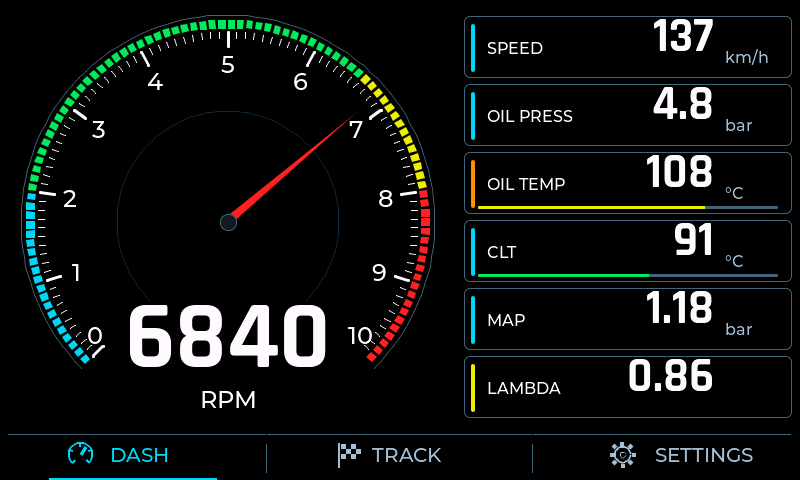
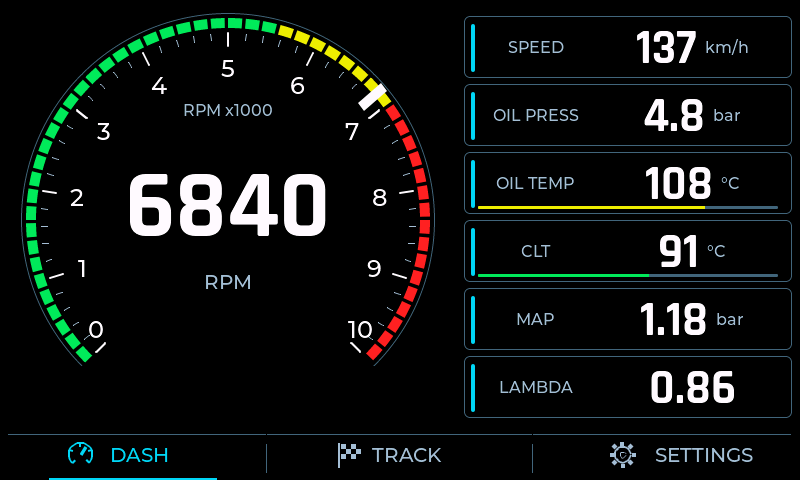
docs(ui): publish six real LVGL layouts and verified test firmware details

diff --git a/docs/superpowers/plans/2026-09-18-six-layouts-approved-ui.md b/docs/superpowers/plans/2026-09-18-six-layouts-approved-ui.md
@@ -27,25 +27,25 @@
 
 Files: src/settings/app_config.h, src/settings/config_repository.cpp, src/ui/dashboard_layout.{h,cpp}, src/ui/tile_engine.cpp, src/ui/ui.cpp, src/ui/shift_light_view.cpp, test/test_dashboard_layout/test_main.cpp, test/test_config_repository/test_main.cpp.
 
-- [ ] Add native behavior tests for enum value 5, six right-row placements, independent page banks, E save/load and v7 migration preserving sound and all old banks.
-- [ ] Push test-only commit and inspect failing GitHub native logs before implementing.
-- [ ] Append ModernMotorsport, expand alternatives to five banks, bump schema to 8; copy_n old bank arrays in v6/v7 migration. Add dropdown choice, placement reuse and integrated shift behavior.
-- [ ] Run full GitHub native tests and packaging tests.
+- [x] Add native behavior tests for enum value 5, six right-row placements, independent page banks, E save/load and v7 migration preserving sound and all old banks.
+- [x] Push test-only commit and inspect failing GitHub native logs before implementing.
+- [x] Append ModernMotorsport, expand alternatives to five banks, bump schema to 8; copy_n old bank arrays in v6/v7 migration. Add dropdown choice, placement reuse and integrated shift behavior.
+- [x] Run full GitHub native tests and packaging tests.
 
 ## Task 2: Real LVGL styles and redraw safety
 
 Files: src/ui/rpm_scale_view.{h,cpp}, src/ui/tile_view.{h,cpp}, src/ui/dashboard_layout.{h,cpp}, design/production-preview/{render.cpp,convert.py}.
 
-- [ ] Add actual framebuffer assertions for centered white digits and cyan rails, shared scale and new E scenes.
-- [ ] Render on GitHub against old views to observe failures.
-- [ ] Use native circular arcs for Analog and E. Precompute Strip congruent circular sector polygons with clipped geometry, rather than per-frame supersampled prototype rasterization.
-- [ ] Draw radial D rectangle, E progress cap and continuous fill; invalidate old and new marker regions, E changed arc strip and changed Strip sectors. Repaint the entire indicator on flash/validity changes.
-- [ ] Center visible glyph bounds and value/unit group on compact rows, refitting and repositioning only on text changes. Preserve flag and unavailable captions.
-- [ ] Add E idle, redline, scale 7500, warning/flag/unavailable scenarios and incremental-versus-full framebuffer comparisons.
-- [ ] Run production rendering and full firmware build on GitHub; visually inspect downloaded images.
+- [x] Add actual framebuffer assertions for centered white digits and cyan rails, shared scale and new E scenes.
+- [x] Render on GitHub against old views to observe failures.
+- [x] Use native circular arcs for Analog and E. Precompute Strip congruent circular sector polygons with clipped geometry, rather than per-frame supersampled prototype rasterization.
+- [x] Draw radial D rectangle, E progress cap and continuous fill; invalidate old and new marker regions, E changed arc strip and changed Strip sectors. Repaint the entire indicator on flash/validity changes.
+- [x] Center visible glyph bounds and value/unit group on compact rows, refitting and repositioning only on text changes. Preserve flag and unavailable captions.
+- [x] Add E idle, redline, scale 7500, warning/flag/unavailable scenarios and incremental-versus-full framebuffer comparisons.
+- [x] Run production rendering and full firmware build on GitHub; visually inspect downloaded images.
 
 ## Task 3: Review and firmware handoff
 
-- [ ] Request a read-only reviewer for changes since 991e653; fix important findings.
-- [ ] Record successful native/Python counts, production render assertions and build memory usage.
-- [ ] Download the full firmware binary, verify length and SHA256; show real firmware screen images and the local full-bin link with offset 0x0 and NVS overwrite caution.
+- [x] Request a read-only reviewer for changes since 991e653; fix important findings.
+- [x] Record successful native/Python counts, production render assertions and build memory usage.
+- [x] Download the full firmware binary, verify length and SHA256; show real firmware screen images and the local full-bin link with offset 0x0 and NVS overwrite caution.

diff --git a/README.md b/README.md
@@ -36,10 +36,10 @@ Flash the complete image at address **`0x0`**. Its expected SHA-256 is:
 
 ## Interface preview
 
-### Development: five selectable layouts
+### Development: six selectable layouts
 
 The `dashboard-dev` branch adds **Classic DASH, Classic TRACK, Analog Style,
-Side Gear, and Strip Style**. This is newer than the published v0.2.1 BIN above;
+Side Gear, Strip Style, and Modern Motorsport**. This is newer than the published v0.2.1 BIN above;
 it is not yet a released firmware.
 
 In `SETTINGS > LAYOUTS`, assign any preset independently to DASH and TRACK.
@@ -49,25 +49,36 @@ steps and does not change shift-light thresholds. Changes save on screen exit.
 Hidden tiles compact within their group; holding a tile opens the existing
 full-screen editor. Navigation includes gauge, checkered flag, and gear icons.
 
-The five development layouts below are **real production-view LVGL 8.4
+The six development layouts below are **real production-view LVGL 8.4
 framebuffer captures**, rendered on GitHub with the firmware's TileView,
 RpmScaleView, ShiftLightView and navigation code. No UI reconstruction is used.
 Black panels, condensed white digits, fine blue-grey frames and cyan navigation
-follow the approved visual prototypes. The Analog preset uses a colored ring
-and red needle; Side Gear shares one RPM/speed frame; Strip has a curved,
-slanted RPM strip without a logo. Physical performance still needs board testing.
+follow the approved visual prototypes. Analog D uses a colored ring, a moving
+white rectangular index and centered RPM. Modern Motorsport E adds a continuous
+upper semicircle with dim future zones and a white progress cap. Side Gear
+shares one RPM/speed frame; Strip uses equal circular RPM sectors without a logo.
+Tile rails are cyan, compact-row labels and values are optically centered, and
+scale labels always use whole thousands. Physical performance still needs board testing.
 
 | Analog Style | Side Gear | Strip Style |
 | --- | --- | --- |
 | ![Analog Style](docs/ui/screenshots/firmware-analog-style.png) | ![Side Gear](docs/ui/screenshots/firmware-side-gear.png) | ![Strip Style](docs/ui/screenshots/firmware-strip-style.png) |
+
+![Modern Motorsport E](docs/ui/screenshots/firmware-modern-motorsport.png)
 
 | DASH | TRACK |
 | --- | --- |
 | ![DIY Dash dashboard](docs/ui/screenshots/firmware-classic-dash.png) | ![DIY Dash track screen](docs/ui/screenshots/firmware-classic-track.png) |
 
 The [production preview workflow](.github/workflows/production-view-previews.yml)
-checks 14 scenes, including flags, warning borders, 6000/10000 RPM, red flash
-phases and unavailable captions. Its artifacts provide all captured scenes.
+checks 25 scenes, including flags, warning borders, 6000/7500/10000 RPM, red flash
+phases and unavailable captions. It compares incremental redraws against full
+framebuffers for Analog, Side Gear, Strip and Modern Motorsport, including small
+RPM changes and validity transitions. Its artifacts provide all captured scenes.
+Configuration schema v8 migrates v6/v7 settings while retaining the original
+layout banks and warning-sound preference; the new layout starts with its own defaults.
+See [six-layout validation and test firmware](docs/ui/six-layout-validation.md)
+for the successful build, full-image checksum and flashing precautions.
 The settings/editor/flag/modal illustrations below remain geometry previews,
 not full-production framebuffer captures.
 

diff --git a/docs/ui/six-layout-validation.md b/docs/ui/six-layout-validation.md
@@ -1,0 +1,21 @@
+# Six-layout firmware validation
+
+Production source: `7e65aac5b817b371db9bff2686e8b239e33c18a5`, branch `dashboard-dev`.
+
+All compilation, tests and LVGL framebuffer rendering ran on GitHub, not locally.
+
+- [Firmware workflow](https://github.com/barcu00/DIY-dash-5/actions/runs/35283077896): 197 native tests and 24 Python packaging/UI contract tests passed; ESP32-S3 compilation and binary packaging passed.
+- [Production framebuffer workflow](https://github.com/barcu00/DIY-dash-5/actions/runs/35283077868): 25 real LVGL 8.4 scenes passed, including optical numeric centering, cyan rails, flags, unavailable captions, flash phases, 7500 RPM scales and hidden/warning tiles.
+- Incremental versus full framebuffer comparisons passed for Analog D, Side Gear, Strip and Modern Motorsport E. This includes small RPM changes, threshold crossings, flashing and signal invalidation.
+- Test-only commit `05e8c55` reproduced stale incremental pixels before the complete-sector invalidation fix in `7e65aac`.
+- Read-only review identified the Side Gear redraw defect and redundant CompactRow text measurements; both were addressed before the successful runs.
+
+Build reports static RAM 146336 / 327680 bytes (44.7%) and application flash 818496 / 6553600 bytes (12.5%). RAM figures do not include dynamic heap, display buffers or PSRAM usage.
+
+The full image is `DIY-Dash-ESP32-S3-Touch-LCD-5-full.bin`, 16777216 bytes, for Waveshare ESP32-S3-Touch-LCD-5 non-B. Flash at `0x0`. Obtain it from the firmware workflow artifact; it is not a new public release.
+
[1 lines of base64/hex data omitted]
+
+**Full-image flashing overwrites the complete flash, including NVS settings. Back up existing settings first.** Schema v8 migrates retained v6/v7 NVS settings when only the application is updated; migration cannot restore NVS erased by a full image.
+
+The accompanying `firmware-*.png` files are actual production-view framebuffer captures, not artistic mockups. Automated equality checks do not prove on-device refresh rate, touch latency or electrical stability. Physical board and vehicle validation remain required.
